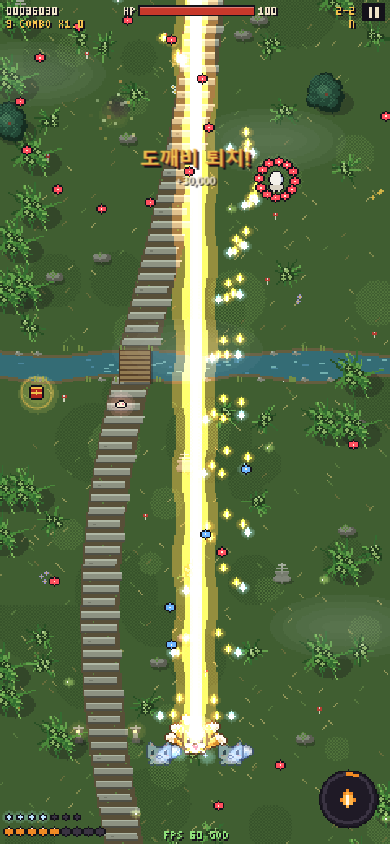
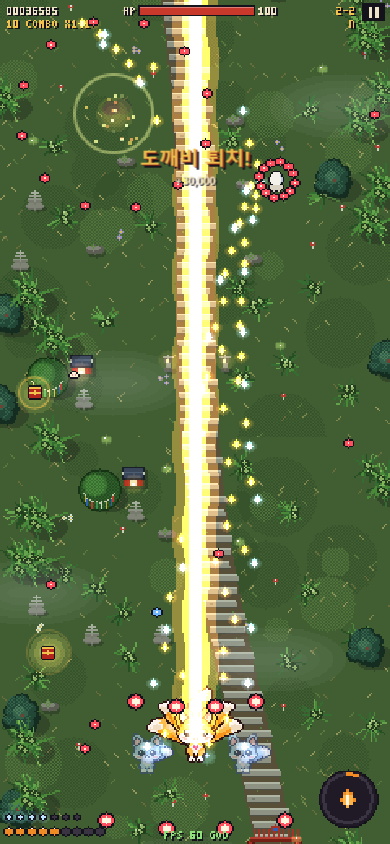
캐릭터를 ChatGPT 원화 기반 27×36 여우로 교체
- art/*.png 원화 6장(기본·금빛·구미호 × 눈 뜬/감은)을 픽셀 격자로 옮겨 스프라이트화
  (좌우 대칭·눈 하이라이트만 정리), art/preview-v2.png에 원화와 비교
- 꼬리 색·길이·굵기, 여우구슬 궤도, 환영 여우(19×25 작은 버전) 간격을 새 크기에 맞춤
- 머리가 잘리지 않게 이동 범위 위쪽 한계 22→30
- README 캐릭터 설명·스크린샷 갱신

diff --git a/index.html b/index.html
@@ -177,7 +177,7 @@ function resize(){
   stageEl.style.width=(W*SCALE)+'px'; stageEl.style.height=(H*SCALE)+'px';
   stageEl.style.setProperty('--u',SCALE+'px');
   ctx.imageSmoothingEnabled=false;
-  if(player){player.x=clamp(player.x,6,W-6);player.y=clamp(player.y,22,H-12);}
+  if(player){player.x=clamp(player.x,6,W-6);player.y=clamp(player.y,30,H-12);}
 }
 
 // ================================================================
@@ -229,35 +229,54 @@ function ptext(s,x,y,col,sc=1,align='left',shadow=false){ s=String(s).toUpperCas
   if(shadow) drawStr(s,x+sc,y+sc,C.ink,sc); drawStr(s,x,y,col,sc); }
 
 // ================================================================
-//  스프라이트 — 정면을 보는 꼬마 여우 (폼별 팔레트 · 눈 깜빡임)
+//  스프라이트 — 정면을 보는 꼬마 여우
 // ================================================================
-const FOX16=[
-  "..k..........k..",
-  ".kok........kok.",
-  ".kopk......kpok.",
-  "kooppk....kppook",
-  "koooookkkkoooook",
-  "kooooooooooooOOk",
-  "kooweooooooweoOk",
-  "kooeeooooooeeoOk",
-  "kooeeoccccoeeoOk",
-  "koppcccnncccppOk",
-  "koccccmccmccccok",
-  ".kcccccmmccccck.",
-  "..kooccccccook..",
-  ".kooccccccccook.",
-  ".kcckoccccokcck.",
-  "..kkk.kkkk.kkk..",
-];
+// 캐릭터: ChatGPT 원화(art/*.png)를 27×36 격자로 옮김 — 좌우 대칭과 눈 하이라이트만 정리
+const FOX_ROWS=["...kkk...............kkk...", "..kbbbk.............kbbbk..", "..kbbbbkk.........kkbbbbk..", ".kbbkbbbbk.......kbbbbkbbk.", ".kbbkkbbbbk.....kbbbbkkbbk.", ".kbbkckbbbbk...kbbbbkckbbk.", ".kbkdcckbbbkkkkkbbbkccdkbk.", "kbbkddcckbbkbbbkbbkccddkbbk", "kbbkddcckkbbbbbbbkkccddkbbk", "kbbkdddkbbbbbbbbbbbkdddkbbk", ".kbbkdkbbbbbbbbbbbbbkdkbbk.", ".kbbkkbbbbbbbbbbbbbbbkkbbk.", ".kbbabbbeebbbbbbbeebbbabbk.", "..kaabbbbeebbbbbeebbbbaak..", "..kkbbbbbbebbbbbebbbbbbkk..", "...kbbbkkkbbbbbbbkkkbbbk...", "..kbbbkffkkbbbbbkffkkbbbk..", ".kbbbbkffkkbbbbbkffkkbbbbk.", ".kbbeekkkfkbeeebkkkfkeebbk.", "..keeeekkkeeekeeekkkeeeek..", "..keeccceeeeekeeeeeccceek..", "...keecceeeekekeeeecceek...", "....keeeeeeeeeeeeeeeeek....", ".....kkeeeeeeeeeeeeekk.....", ".......kkkbbeeebbkkk.......", ".........bbeedeebb.........", "........kbeeeeeeebk........", ".......kbbbeeeeebbbk.......", ".......kbbbbeeebbbbk.......", ".......kkbbbeeebbbkk.......", "........kabbkekbbak........", "........kabbkakbbak........", ".........keekakeek.........", "........keeeekeeeek........", "........keekekekeek........", ".........kkkk.kkkk........."];
+const FOX_BLINK=["...kkk...............kkk...", "..kbbbk.............kbbbk..", "..kbbbbkk.........kkbbbbk..", ".kbbkbbbbk.......kbbbbkbbk.", ".kbbkkbbbbk.....kbbbbkkbbk.", ".kbbkckbbbbk...kbbbbkckbbk.", ".kbkdcckbbbkkkkkbbbkccdkbk.", "kbbkddcckbbkbbbkbbkccddkbbk", "kbbkddcckkbbbbbbbkkccddkbbk", "kbbkdddkbbbbbbbbbbbkdddkbbk", ".kbbkdkbbbbbbbbbbbbbkdkbbk.", ".kbbkkbbbbbbbbbbbbbbbkkbbk.", ".kbbabbbeebbbbbbbeebbbabbk.", "..kaabbbbeebbbbbeebbbbaak..", "..kkbbbbbbebbbbbebbbbbbkk..", "...kbbbbbbbbbbbbbbbbbbbk...", "..kbbbbbbbbbbbbbbbbbbbbbk..", ".kbbbbkkkkkbbbbbkkkkkbbbbk.", ".kbbeebbbbbbeeebbbbbbeebbk.", "..keeeebbbbeekeebbbbeeeek..", "..keeccceeeeekeeeeeccceek..", "...keecceeeekekeeeecceek...", "....keeeeeeeeeeeeeeeeek....", ".....kkeeeeeeeeeeeeekk.....", ".......kkkbbeeebbkkk.......", "........kbbeedeebbk........", "........kbeeeeeeebk........", ".......kbbbeeeeebbbk.......", ".......kbbbbeeebbbbk.......", ".......kbbbbeeebbbbk.......", ".......kkabbkekbbakk.......", "........kkbbkakbbkk........", "........kkeekakeekk........", "........keeeekeeeek........", "........keekekekeek........", ".........kkkk.kkkk........."];
+const PAL_FOX={k: "#341414", "a": "#d4540c", "b": "#fc7c1c", "c": "#fc9c9c", "d": "#fcc4c4", "e": "#fcecdc", "f": "#fcfcfc"};
+const GOLD_ROWS=["...kkk...............kkk...", "..kccck.............kccck..", "..kcccckk.........kkcccck..", ".kcckcccck.......kcccckcck.", ".kcckkcccck.....kcccckkcck.", ".kcckdkcccck...kcccckdkcck.", ".kckeddkccckkkkkccckddekck.", "kcckeeddkcckccckcckddeekcck", "kcckeeddkkccccccckkddeekcck", "kcckeeekccccccccccckeeekcck", ".kcckekccccccccccccckekcck.", ".kcckkccccccacacccccckkcck.", ".kccbcccffccacaccffcccbcck.", "..kbbccccffcccccffccccbbk..", "..kkccccccfcccccfcccccckk..", "...kccckkkccccccckkkccck...", "..kccckffkkccccckffkkccck..", ".kcccckffkkccccckffkkcccck.", ".kccffkkkfkcfffckkkfkffcck.", "..kffffkkkfffkfffkkkffffk..", "..kffdddfffffkfffffdddffk..", "...kffddffffkfkffffddffk...", "....kfffffffffffffffffk....", ".....kkfffffffffffffkk.....", ".......kkkcceeecckkk.......", "........kccffeffcck........", "........kcfffffffck........", ".......kcccfffffccck.......", ".......kccccfffcccck.......", ".......kccccfffcccck.......", ".......kkbcckfkccbkk.......", "........kkcckbkcckk........", "........kkffkkkffkk........", "........kffffkffffk........", "........kffkfkfkffk........", ".........kkkk.kkkk........."];
+const GOLD_BLINK=["...kkk...............kkk...", "..kccck.............kccck..", "..kcccckk.........kkcccck..", ".kcckcccck.......kcccckcck.", ".kcckkcccck.....kcccckkcck.", ".kcckdkcccck...kcccckdkcck.", ".kckeddkccckkkkkccckddekck.", "kcckeeddkcckccckcckddeekcck", "kcckeeddkkccccccckkddeekcck", "kcckeeekccccccccccckeeekcck", ".kcckekccccccccccccckekcck.", ".kcckkccccccacacccccckkcck.", ".kccbcccffccacaccffcccbcck.", "..kbbccccffcccccffccccbbk..", "..kkccccccccccccccccccckk..", "...kccccccccccccccccccck...", "..kccccccccccccccccccccck..", ".kcccckkkkkccccckkkkkcccck.", ".kccffccccccfffccccccffcck.", "..kffffcccfffkfffcccffffk..", "..kffdddfffffkfffffdddffk..", "...kffddffffkfkffffddffk...", "....kfffffffffffffffffk....", ".....kkfffffffffffffkk.....", ".......kkkccfffcckkk.......", "........kccffeffcck........", "........kcfffffffck........", ".......kcccfffffccck.......", ".......kccccfffcccck.......", ".......kkcccfffccckk.......", "........kbcckfkccbk........", "........kkffkbkffkk........", "........kkffkbkffkk........", "........kffffkffffk........", "........kffkfkfkffk........", ".........kkkk.kkkk........."];
+const PAL_GOLD={k: "#2c1414", "a": "#cc1c1c", "b": "#f4941c", "c": "#fcbc4c", "d": "#fc9c9c", "e": "#fccccc", "f": "#fcf4ec"};
+const GUMIHO_ROWS=["...kkk...............kkk...", "..keeek.............keeek..", "..keeeekk.........kkeeeek..", ".keekeeejk.......kjeeekeek.", ".keekkjjjjk.....kjjjjkkeek.", ".keekfkjjjjk...kjjjjkfkeek.", ".kekhffkjjjkkkkkjjjkffhkek.", "kejkhhffkjjkjjjkjjkffhhkjek", "kjjkhhffkkjjjjjjjkkffhhkjjk", "kjjkhhhkjjjjjjjjjjjkhhhkjjk", ".kjjkhkjjjjjjjjjjjjjkhkjjk.", ".kjjkkjjjcjjjejjjcjjjkkjjk.", ".kjjijjjjjjjegejjjjjjjijjk.", "..kiijjjjjjcjgjcjjjjjjiik..", "..kkjjjjjjjjjjjjjjjjjjjkk..", "...kjjjkkkjjjjjjjkkkjjjk...", "..kjjjkjjkkjjjjjkjjkkjjjk..", ".kjjjjkjjkkjjjjjkjjkkjjjjk.", ".kjjjjkkkekjjjjjkkkekjjjjk.", "..kjjjjkkkkjjkjjjkkkkjjjk..", "..kjjjffjjjjjkjjjjjffjjjk..", "...kjjffjjjjkjkjjjjffjjk...", "....kjjjjjjjjjjjjjjjjjk....", ".....kkjjjjjjjjjjjjjkk.....", ".......kkkcjjjjjckkk.......", "........kjjdcecdjjk........", "........kjjjcbcjjjk........", ".......kjjjjjdjjjjjk.......", ".......kjjjjjcjjjjjk.......", ".......kjjjjjcjjjjjk.......", ".......kkijjkckjjikk.......", "........kkjjkjkjjkk........", "........kkjjkjkjjkk........", "........kjjjjkjjjjk........", "........kjjkjkjkjjk........", ".........kkkk.kkkk........."];
+const GUMIHO_BLINK=["...kkk...............kkk...", "..keeek.............keeek..", "..keeeekk.........kkeeeek..", ".keekeeejk.......kjeeekeek.", ".keekkjjjjk.....kjjjjkkeek.", ".keekfkjjjjk...kjjjjkfkeek.", ".kekhffkjjjkkkkkjjjkffhkek.", "kejkhhffkjjkjjjkjjkffhhkjek", "kjjkhhffkkjjjjjjjkkffhhkjjk", "kjjkhhhkjjjjjjjjjjjkhhhkjjk", ".kjjkhkjjjjjjjjjjjjjkhkjjk.", ".kjjkkjjjcjjjdjjjcjjjkkjjk.", ".kjjijjjjjcjegejcjjjjjijjk.", "..kiijjjjjjcjgjcjjjjjjiik..", "..kkjjjjjjjjjjjjjjjjjjjkk..", "...kjjjjjjjjjjjjjjjjjjjk...", "..kjjjjjjjjjjjjjjjjjjjjjk..", ".kjjjjkkkkkjjjjjkkkkkjjjjk.", ".kjjjjjjjjjjjjjjjjjjjjjjjk.", "..kjjjjjjjjjjkjjjjjjjjjjk..", "..kjjfffjjjjjkjjjjjfffjjk..", "...kjjffjjjjkjkjjjjffjjk...", "....kjjjjjjjjjjjjjjjjjk....", ".....kkjjjjjjjjjjjjjkk.....", ".......kkkcjjjjjckkk.......", "........kjjdcdcdjjk........", "........kjjjbbbjjjk........", ".......kjjjjjdjjjjjk.......", ".......kjjjjjcjjjjjk.......", ".......kjjjjjcjjjjjk.......", ".......kkijjkckjjikk.......", "........kkjjkjkjjkk........", "........kkjjkjkjjkk........", "........kjjjjkjjjjk........", "........kjkkjkjkkjk........", ".........kkkk.kkkk........."];
+const PAL_GUMIHO={k: "#2c1414", "a": "#940c1c", "b": "#b41424", "c": "#d41c2c", "d": "#fcb424", "e": "#fcc454", "f": "#fca4a4", "g": "#fcec94", "h": "#fccccc", "i": "#ece4d4", "j": "#fcf4ec"};
+
+// 환영 여우: 같은 캐릭터를 19×25로 줄인 작은 여우 (파란색 반투명)
+// k 외곽선 · o 털 · O 털그늘 · c 크림 · C 크림그늘 · p/P 귀 안쪽 · e 눈 · w 하이라이트 · b 볼터치 · n 코 · m 입
 function editRows(rows,edits){ const r=rows.map(s=>s.split('')); for(const [x,y,ch] of edits) r[y][x]=ch; return r.map(a=>a.join('')); }
-function blinkRows(rows){ const e=[]; for(const x of [3,4,11,12]) e.push([x,6,'o'],[x,7,'e'],[x,8,'o']); return editRows(rows,e); }
-const PAL_FOX={k:'#4a2a24',o:'#f28a3a',O:'#cf6a2a',c:'#fff3e0',C:'#f1d4b4',p:'#ff9fb2',e:'#2a1a2e',w:'#ffffff',n:'#4a2a2a',m:'#b0505a',r:'#e0483a',y:'#f2c14e',g:'#f7d77a'};
-const PAL_GOLD=Object.assign({},PAL_FOX,{k:'#5a3a22',o:'#fbbf57',O:'#e0983a'});
-const PAL_GUMIHO=Object.assign({},PAL_FOX,{k:'#6a4a44',o:'#fffaf2',O:'#eadccb',c:'#ffffff',C:'#f3e6d6',p:'#ffb0c0',e:'#3a2030',n:'#c86a6a',m:'#d0707a'});
-const PAL_PH=Object.assign({},PAL_FOX,{k:'#3a4a7a',o:'#bfe0ff',O:'#8fb8e8',c:'#f2f9ff',C:'#d8e8f8',p:'#ffc0d0',e:'#2a3a6a',n:'#3a4a7a',m:'#6a7ab0'});
-// 5꼬리: 이마에 붉은 무늬 / 9꼬리 구미호: 금 보석·금빛 눈동자·노리개 목걸이·금빛 귀끝
-const GOLD_ROWS=editRows(FOX16,[[7,5,'r'],[8,5,'r']]);
-const GUMIHO_ROWS=editRows(FOX16,[[7,4,'y'],[8,4,'y'],[7,5,'r'],[8,5,'r'],[4,8,'g'],[12,8,'g'],[6,12,'y'],[7,12,'r'],[8,12,'r'],[9,12,'y'],[2,1,'y'],[13,1,'y']]);
+const FOX19=[
+  ".kkk...........kkk.",
+  ".koook.......koook.",
+  "kokkook.....kookkok",
+  "kokpkook...kookpkok",
+  "kkpPpkokkkkkokpPpkk",
+  "kkpPpkoooooookpPpkk",
+  "kkppkoooooooookppkk",
+  "kokkoooooooooookkok",
+  ".kOooccoooooccooOk.",
+  ".kOoooooooooooooOk.",
+  ".koooeeoooooeeoook.",
+  ".kooeweeoooeweeook.",
+  "koooeeeeoooeeeeooOk",
+  "kcccceeccncceecccck",
+  ".kcbbbccmcmccbbbck.",
+  "..kCcccccccccccCk..",
+  "...kkkCCCCCCCkkk...",
+  ".....kocCCCcOk.....",
+  ".....kocccccOk.....",
+  "....kooocccooOk....",
+  "....kkooOCOoOkk....",
+  "....kkOokOkoOkk....",
+  ".....kcccOccck.....",
+  ".....kccckccck.....",
+  ".....kkkkkkkkk.....",
+];
+function blinkRows(rows){ const e=[];
+  for(const x of [4,5,6,7,11,12,13,14]){ e.push([x,10,'o'],[x,11,'o'],[x,12,'o']); }
+  for(const x of [4,7,11,14]) e.push([x,12,'e']);          // 감은 눈: ‿ 모양
+  return editRows(rows,e); }
+const PAL_PH={k:'#3a4a7a',o:'#bfe0ff',O:'#8fb8e8',c:'#f2f9ff',C:'#d8e8f8',p:'#ffc0d0',P:'#ffe0e8',e:'#2a3a6a',w:'#ffffff',b:'#ffc0d0',n:'#3a4a7a',m:'#3a4a7a'};
 const IMP_ROWS=["....kyk....","..kkkykkk..",".krrrrrrrk.","krkwrrrwkrk","krrrrrrrrrk","krwkwkwkwrk",".krrrrrrrk.","kRrrrrrrrRk","kRkyykyykRk",".kyykyykyk.",".kRk...kRk.",".kkk...kkk."];
 const EGG_ROWS=["...kkkk...","..kwwwwk..",".kwwwwwgk.",".kwwwwwgk.","kwwwwwwwgk","kwwwwwwwgk","kwwwwwwwgk",".kwwwwwgk.",".kkwwwwkk.","kssssssssk","kssssssssk",".kssssssk.","..kskksk.."];
 const BULGA_ROWS=["..k.........k..",".kSk.......kSk.",".kSSkkkkkkkSSk.","..kSsssssssSk..",".kSsrksssrksSk.","kSsssssssssssSk","kSswsswsswsswSk","kSsssssssssssSk",".kSsssssssssSk.","kSkSsssssssSkSk","kSk.kSSSSSk.kSk","kk...kkkkk...kk"];
@@ -275,13 +294,14 @@ const SPR={
   gfire:sprite('gfire',["..f..",".fFf.",".FWF.","fFWFf",".FWF.","..F.."],{f:'#f2c14e',F:'#ffe29a',W:'#ffffff'}),
   pfire:sprite('pfire',["..f..",".fFf.",".FWF.","fFWFf",".FWF.","..F.."],{f:'#5f8fd0',F:'#9fc8ff',W:'#ffffff'}),
 };
-function foxForm(name,rows,pal,tail,L){ return {open:sprite(name,rows,pal),blink:sprite(name+'-blink',blinkRows(rows),pal),tail,L}; }
+// dy: 가슴(판정점)에서 스프라이트 중심까지의 거리 · L/T: 꼬리 길이/굵기 배율
+function foxForm(name,rows,blink,pal,tail,L,T,dy){ return {open:sprite(name,rows,pal),blink:sprite(name+'-blink',blink,pal),tail,L,T,dy}; }
 // tail: [기본, 그늘, 꼬리끝, 외곽선, 꼬리끝 그늘]
 const FORMS={
-  fox:foxForm('fox',FOX16,PAL_FOX,['#f28a3a','#cf6a2a','#fff3e0','#4a2a24','#f1d4b4'],15),
-  gold:foxForm('gold',GOLD_ROWS,PAL_GOLD,['#fbbf57','#d98e2e','#fffaf0','#5a3a22','#f3dcb0'],17),
-  gumiho:foxForm('gumiho',GUMIHO_ROWS,PAL_GUMIHO,['#fff8ec','#f0dcb0','#f7c94e','#7a5234','#e0a030'],21),
-  phantom:foxForm('phantom',FOX16,PAL_PH,['#bfe0ff','#8fb8e8','#ffffff','#3a4a7a','#d8e8f8'],11),
+  fox:foxForm('fox',FOX_ROWS,FOX_BLINK,PAL_FOX,['#fc7c1c','#d4540c','#fcecdc','#341414','#f0d4bc'],26,1.45,8),
+  gold:foxForm('gold',GOLD_ROWS,GOLD_BLINK,PAL_GOLD,['#fcbc4c','#f4941c','#fcf4ec','#2c1414','#f0dcc0'],28,1.45,8),
+  gumiho:foxForm('gumiho',GUMIHO_ROWS,GUMIHO_BLINK,PAL_GUMIHO,['#fcf4ec','#ece4d4','#fcc454','#2c1414','#fcb424'],32,1.5,8),
+  phantom:foxForm('phantom',FOX19,blinkRows(FOX19),PAL_PH,['#bfe0ff','#8fb8e8','#ffffff','#3a4a7a','#d8e8f8'],14,1,5),
 };
 
 // ================================================================
@@ -979,7 +999,7 @@ function gameClear(){ G.state='clear'; const bonus=Math.ceil(player.hp)*100; add
 // ================================================================
 //  플레이어 · 스킬
 // ================================================================
-function orbPos(i){ const n=player.orbs, a=player.orbAng+i*TAU/n, R=9+n*.8; return {x:player.x+Math.cos(a)*R,y:player.y+Math.sin(a)*R*.55,back:Math.sin(a)<0}; }
+function orbPos(i){ const n=player.orbs, a=player.orbAng+i*TAU/n, R=18+n*.8; return {x:player.x+Math.cos(a)*R,y:player.y-5+Math.sin(a)*R*.55,back:Math.sin(a)<0}; }
 function fireVolley(){ const n=player.orbs, angs=FAN[n-1], sp=player.tails>=9?380:340;
   for(let i=0;i<angs.length;i++){ const o=orbPos(i%n), a=angs[i]*Math.PI/180; const b=spawnPB(o.x,o.y-2,Math.sin(a)*sp,-Math.cos(a)*sp,dmgMult(),'fire'); b.homing=player.tails>=2&&Math.abs(angs[i])<40; }
   if(player.tails>=5) for(const q of player.ph){ const b=spawnPB(q.x,q.y-4,0,-sp,.8*dmgMult(),'phantom'); b.homing=true; }
@@ -987,11 +1007,11 @@ function fireVolley(){ const n=player.orbs, angs=FAN[n-1], sp=player.tails>=9?38
 function updatePlayer(dt){ const p=player; if(!p.alive) return;
   let mx=0,my=0; if(keys.ArrowLeft||keys.KeyA) mx--; if(keys.ArrowRight||keys.KeyD) mx++; if(keys.ArrowUp||keys.KeyW) my--; if(keys.ArrowDown||keys.KeyS) my++;
   if(mx||my){ const sp=(keys.ShiftLeft||keys.ShiftRight)?55:115, l=Math.hypot(mx,my); p.x+=mx/l*sp*dt; p.y+=my/l*sp*dt; }
-  p.x=clamp(p.x,6,W-6); p.y=clamp(p.y,22,H-12);
+  p.x=clamp(p.x,6,W-6); p.y=clamp(p.y,30,H-12);
   p.orbAng+=dt*2.4; p.inv=Math.max(0,p.inv-dt); p.awakenT=Math.max(0,p.awakenT-dt);
   p.gauge=Math.min(100,p.gauge+dt*1.2);
   p.fireT-=dt; if(p.fireT<=0){ p.fireT=Math.max(0,p.fireT+(p.tails>=9?.085:.11)); fireVolley(); }
-  const offs=[[-22,8],[22,8]]; p.ph.forEach((q,i)=>{ q.x=lerp(q.x,p.x+offs[i][0],Math.min(1,dt*8)); q.y=lerp(q.y,p.y+offs[i][1],Math.min(1,dt*8)); });
+  const offs=[[-30,10],[30,10]]; p.ph.forEach((q,i)=>{ q.x=lerp(q.x,p.x+offs[i][0],Math.min(1,dt*8)); q.y=lerp(q.y,p.y+offs[i][1],Math.min(1,dt*8)); });
   if(p.gauge>=100&&!G.readyShown){ G.readyShown=true; SFX.ready(); } }
 function threatNear(r){ for(const b of EB.list) if(!b.dead&&(b.x-player.x)**2+(b.y-player.y)**2<r*r) return true;
   for(const e of enemies) if(valid(e)&&dist2(e,player)<(r+e.r)**2) return true; return false; }
@@ -1109,7 +1129,7 @@ function drawTails(x,y,n,form,t,swipe){ const [base,shade,tip,line,tipShade]=for
   for(let i=0;i<n;i++){ let th=angs[i]+Math.sin(t*2.6+i*1.1)*.08, len=form.L*(1.12-Math.abs(angs[i])*.1);
     if(swipe>0){ th+=(1-swipe/.4)*TAU; len*=1.35; }
     const side=th>=0?1:-1, pts=[]; let px=x, py=y;
-    for(let s=0;s<=N;s++){ const f=s/N, r=f<.2?1.6+f*7:f>.8?3.3-(f-.8)*8.5:3+Math.sin((f-.2)/.6*Math.PI)*1.4;
+    for(let s=0;s<=N;s++){ const f=s/N, r=(f<.2?1.6+f*7:f>.8?3.3-(f-.8)*8.5:3+Math.sin((f-.2)/.6*Math.PI)*1.4)*(form.T||1);
       pts.push([px,py,r,f]); const dir=th+side*f*f*.8+Math.sin(t*3+i+f*3)*.1*f; px+=Math.sin(dir)*len/N; py-=Math.cos(dir)*len/N; }
     tails.push({pts,side}); }
   // 바깥 꼬리부터 한 개씩 그려서 꼬리마다 외곽선이 보이게 (가운데 꼬리가 맨 위)
@@ -1122,10 +1142,10 @@ function drawTails(x,y,n,form,t,swipe){ const [base,shade,tip,line,tipShade]=for
     for(const [px,py,r,f] of P) pc(ctx,px-T.side*.4,py-.4,Math.max(0,r-1.8),f>.8?tip:base);
     for(const [px,py,r,f] of P) if(f>.8&&r>1.5) pc(ctx,px+T.side*.9,py+.9,r-1.6,tipShade);
     ctx.globalAlpha=a0*.35; for(const [px,py,r,f] of P) if(f>.3&&f<.7&&r>3) pc(ctx,px-T.side*1,py-1.2,r-3.2,'#ffffff'); ctx.globalAlpha=a0; } }
-// (x,y) = 가슴(판정점). 몸은 4px 위에 그리고, 1px씩 통통 뛰며 3.2초마다 눈을 깜빡인다
+// (x,y) = 가슴(판정점). 몸은 form.dy만큼 위에 그리고, 1px씩 통통 뛰며 3.2초마다 눈을 깜빡인다
 function drawFox(x,y,n,form,t,swipe){ const bob=Math.sin(t*5)>0?0:1; const a=ctx.globalAlpha;
-  drawTails(x,y-1+bob,n,form,t,swipe||0); ctx.globalAlpha=a;
-  dspr((t%3.2)<.13?form.blink:form.open,x,y-4+bob); }
+  drawTails(x,y-form.dy*.5+bob,n,form,t,swipe||0); ctx.globalAlpha=a;
+  dspr((t%3.2)<.13?form.blink:form.open,x,y-form.dy+bob); }
 function drawPlayer(){ const p=player; if(!p||!p.alive) return;
   const form=p.tails>=9?FORMS.gumiho:p.tails>=5?FORMS.gold:FORMS.fox;
   add(); if(p.tails>=9){ glow(p.x,p.y-8,24+Math.sin(G.t*6)*2,C.gold,.28); glow(p.x,p.y-4,11,'#fff1d6',.3); } else if(p.tails>=5) glow(p.x,p.y-6,14,C.orange,.2);
@@ -1212,7 +1232,7 @@ function drawScreenFx(){
 // 디버그: 폼별 여우를 크게 늘어놓은 캐릭터 시트 (__g.sheet(true))
 function drawSheet(){ ctx.setTransform(1,0,0,1,0,0); norm(); ctx.fillStyle='#6f9a4c'; ctx.fillRect(0,0,W,H);
   const list=[[FORMS.fox,1],[FORMS.fox,4],[FORMS.gold,5],[FORMS.gold,8],[FORMS.gumiho,9],[FORMS.phantom,3]];
-  list.forEach(([f,n],i)=>{ ctx.save(); ctx.translate(60+(i%2)*120,Math.round(H*.2+Math.floor(i/2)*H*.3)); ctx.scale(3,3); drawFox(0,0,n,f,G.t+i*.7,0); ctx.restore(); ptext(n+' TAIL',60+(i%2)*120,Math.round(H*.2+Math.floor(i/2)*H*.3)+22,C.hanji,1,'center',true); }); }
+  list.forEach(([f,n],i)=>{ ctx.save(); ctx.translate(60+(i%2)*120,Math.round(H*.2+Math.floor(i/2)*H*.3)); ctx.scale(2,2); drawFox(0,0,n,f,G.t+i*.7,0); ctx.restore(); ptext(n+' TAIL',60+(i%2)*120,Math.round(H*.2+Math.floor(i/2)*H*.3)+22,C.hanji,1,'center',true); }); }
 function render(){
   if(DEBUG&&G.sheet){ drawSheet(); return; }
   const inGame=['play','dying','clear','pause','result'].includes(G.state)||(G.state==='rank'&&G.rankBack==='result');
@@ -1220,7 +1240,7 @@ function render(){
   ctx.setTransform(1,0,0,1,sx,sy); norm(); ctx.fillStyle=C.ink; ctx.fillRect(-12,-12,W+24,H+24);
   drawWorld();
   if(inGame&&player){ drawItems(); drawEnemies(); drawPlayer(); drawPBullets(); drawParticles(); drawBeam(); drawEBullets(); }
-  else { ctx.save(); ctx.translate(W/2,Math.round(H*.46)); ctx.scale(3,3); add(); glow(0,-8,18,C.gold,.3+.1*Math.sin(G.t*3)); norm(); drawFox(0,0,9,FORMS.gumiho,G.t,0); ctx.restore(); drawParticles(); }
+  else { ctx.save(); ctx.translate(W/2,Math.round(H*.5)); ctx.scale(3,3); add(); glow(0,-10,22,C.gold,.3+.1*Math.sin(G.t*3)); norm(); drawFox(0,0,9,FORMS.gumiho,G.t,0); ctx.restore(); drawParticles(); }
   ctx.setTransform(1,0,0,1,0,0);
   drawScreenFx();
   if(inGame&&player&&G.state!=='result'&&G.state!=='rank') drawHUD();
@@ -1237,7 +1257,7 @@ cv.addEventListener('pointerdown',e=>{ e.preventDefault(); AU.init(); if(G.state
   if(l.x>W-30&&l.y<26){ pauseGame(); return; }
   if(moveId===null&&player.alive){ moveId=e.pointerId; msx=l.x; msy=l.y; mpx=player.x; mpy=player.y; try{ cv.setPointerCapture(e.pointerId); }catch(_){} } });
 cv.addEventListener('pointermove',e=>{ if(e.pointerId!==moveId||G.state!=='play'||!player.alive) return; const l=lp(e);
-  player.x=clamp(mpx+(l.x-msx)*1.15,6,W-6); player.y=clamp(mpy+(l.y-msy)*1.15,22,H-12); });
+  player.x=clamp(mpx+(l.x-msx)*1.15,6,W-6); player.y=clamp(mpy+(l.y-msy)*1.15,30,H-12); });
 const endP=e=>{ if(e.pointerId===moveId) moveId=null; };
 cv.addEventListener('pointerup',endP); cv.addEventListener('pointercancel',endP);
 document.addEventListener('touchmove',e=>{ if(!(e.target.closest&&e.target.closest('.rlist'))) e.preventDefault(); },{passive:false});

diff --git a/README.md b/README.md
@@ -29,13 +29,15 @@
 
 ## 캐릭터
 
-정면을 보는 16×16px 꼬마 여우입니다. 큰 눈과 반짝임, 볼터치, ω 입이 있고, 1px씩 통통 뛰며 3초마다 눈을 깜빡입니다. 꼬리는 **머리 뒤로 부채처럼** 펼쳐집니다. 꼬리가 늘수록 부채가 넓어져서, 9개가 되면 후광처럼 보입니다. 맞는 판정은 가슴의 작은 분홍 하트 한 점뿐입니다.
+정면을 보는 27×36px 꼬마 여우입니다. ChatGPT로 그린 원화(`art/*.png`, 폼 3종 × 눈 뜬/감은 것)를 픽셀 격자로 옮겼고, 좌우 대칭과 눈 하이라이트만 정리했습니다. 1px씩 통통 뛰며 3초마다 눈을 깜빡입니다. 꼬리는 게임이 따로 그려서 **머리 뒤로 부채처럼** 펼쳐지고, 꼬리가 늘수록 부채가 넓어져 9개가 되면 후광처럼 보입니다. 맞는 판정은 가슴의 작은 분홍 하트 한 점뿐입니다.
+
+![원화와 게임 스프라이트 비교](art/preview-v2.png)
 
 | 단계 | 모습 |
 |---|---|
 | 꼬리 1~4 | 주황 여우, 크림색 꼬리끝 |
-| 꼬리 5~8 | 금빛 여우 + 이마의 붉은 무늬, 양옆에 파란 환영 여우 |
-| 꼬리 9 | **구미호**: 흰 털, 금빛 꼬리끝, 이마 보석, 금빛 눈동자, 노리개 목걸이, 금빛 후광 |
+| 꼬리 5~8 | 금빛 여우 + 이마의 붉은 무늬, 양옆에 파란 환영 여우(같은 캐릭터의 19×25 작은 버전) |
+| 꼬리 9 | **구미호**: 흰 털, 금빛 귀와 꼬리끝, 이마 보석과 붉은 점, 눈 속 금빛 반짝임, 노리개 목걸이, 금빛 후광 |
 
 ## 성장 시스템
 
